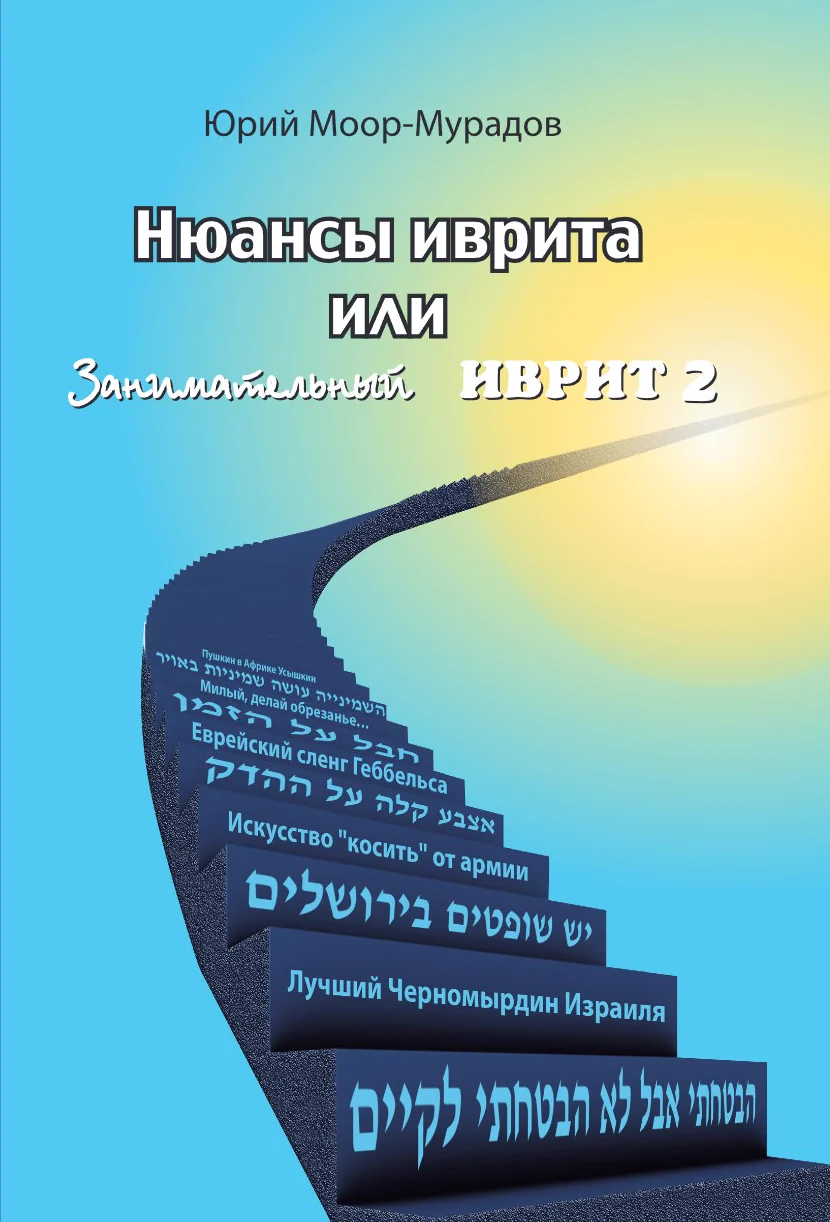
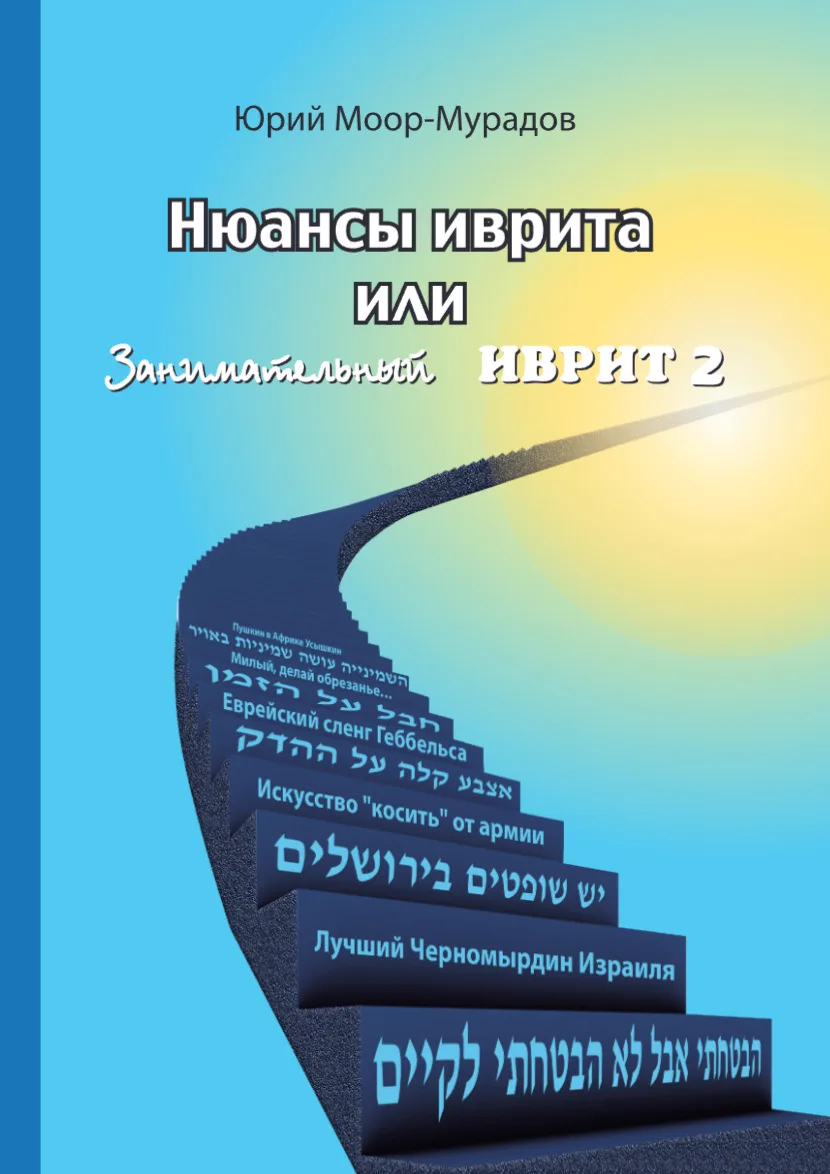
All front covers re-cut at the exact 145x205 trim; mobile buy button fits the card

Changed region(s): [[0.1506, 0.368, 1.0, 1.0], [0.0, 0.0, 0.8735, 1.0], [0.241, 0.092, 0.6928, 0.1227]]

diff --git a/assets/site.css b/assets/site.css
@@ -1886,3 +1886,5 @@ html[data-font=bebas] .pg-info h1[dir=rtl]{font:700 clamp(40px,4vw,60px)/1 "Kara
 #detective.det{padding-top:calc(150*var(--u));padding-bottom:calc(60*var(--u))}
 #detective .det-books{height:calc(440*var(--u))}
 @media (max-width:900px){#detective.det{padding-top:110px;padding-bottom:40px}#detective .det-books{height:92vw}}
+/* phone: price above, buy button full width under it, so the foot never overflows the card */
+@media (max-width:700px){#grid .card-foot{flex-wrap:wrap;gap:10px}#grid .card-buy-btn{width:100%;justify-content:center}}
